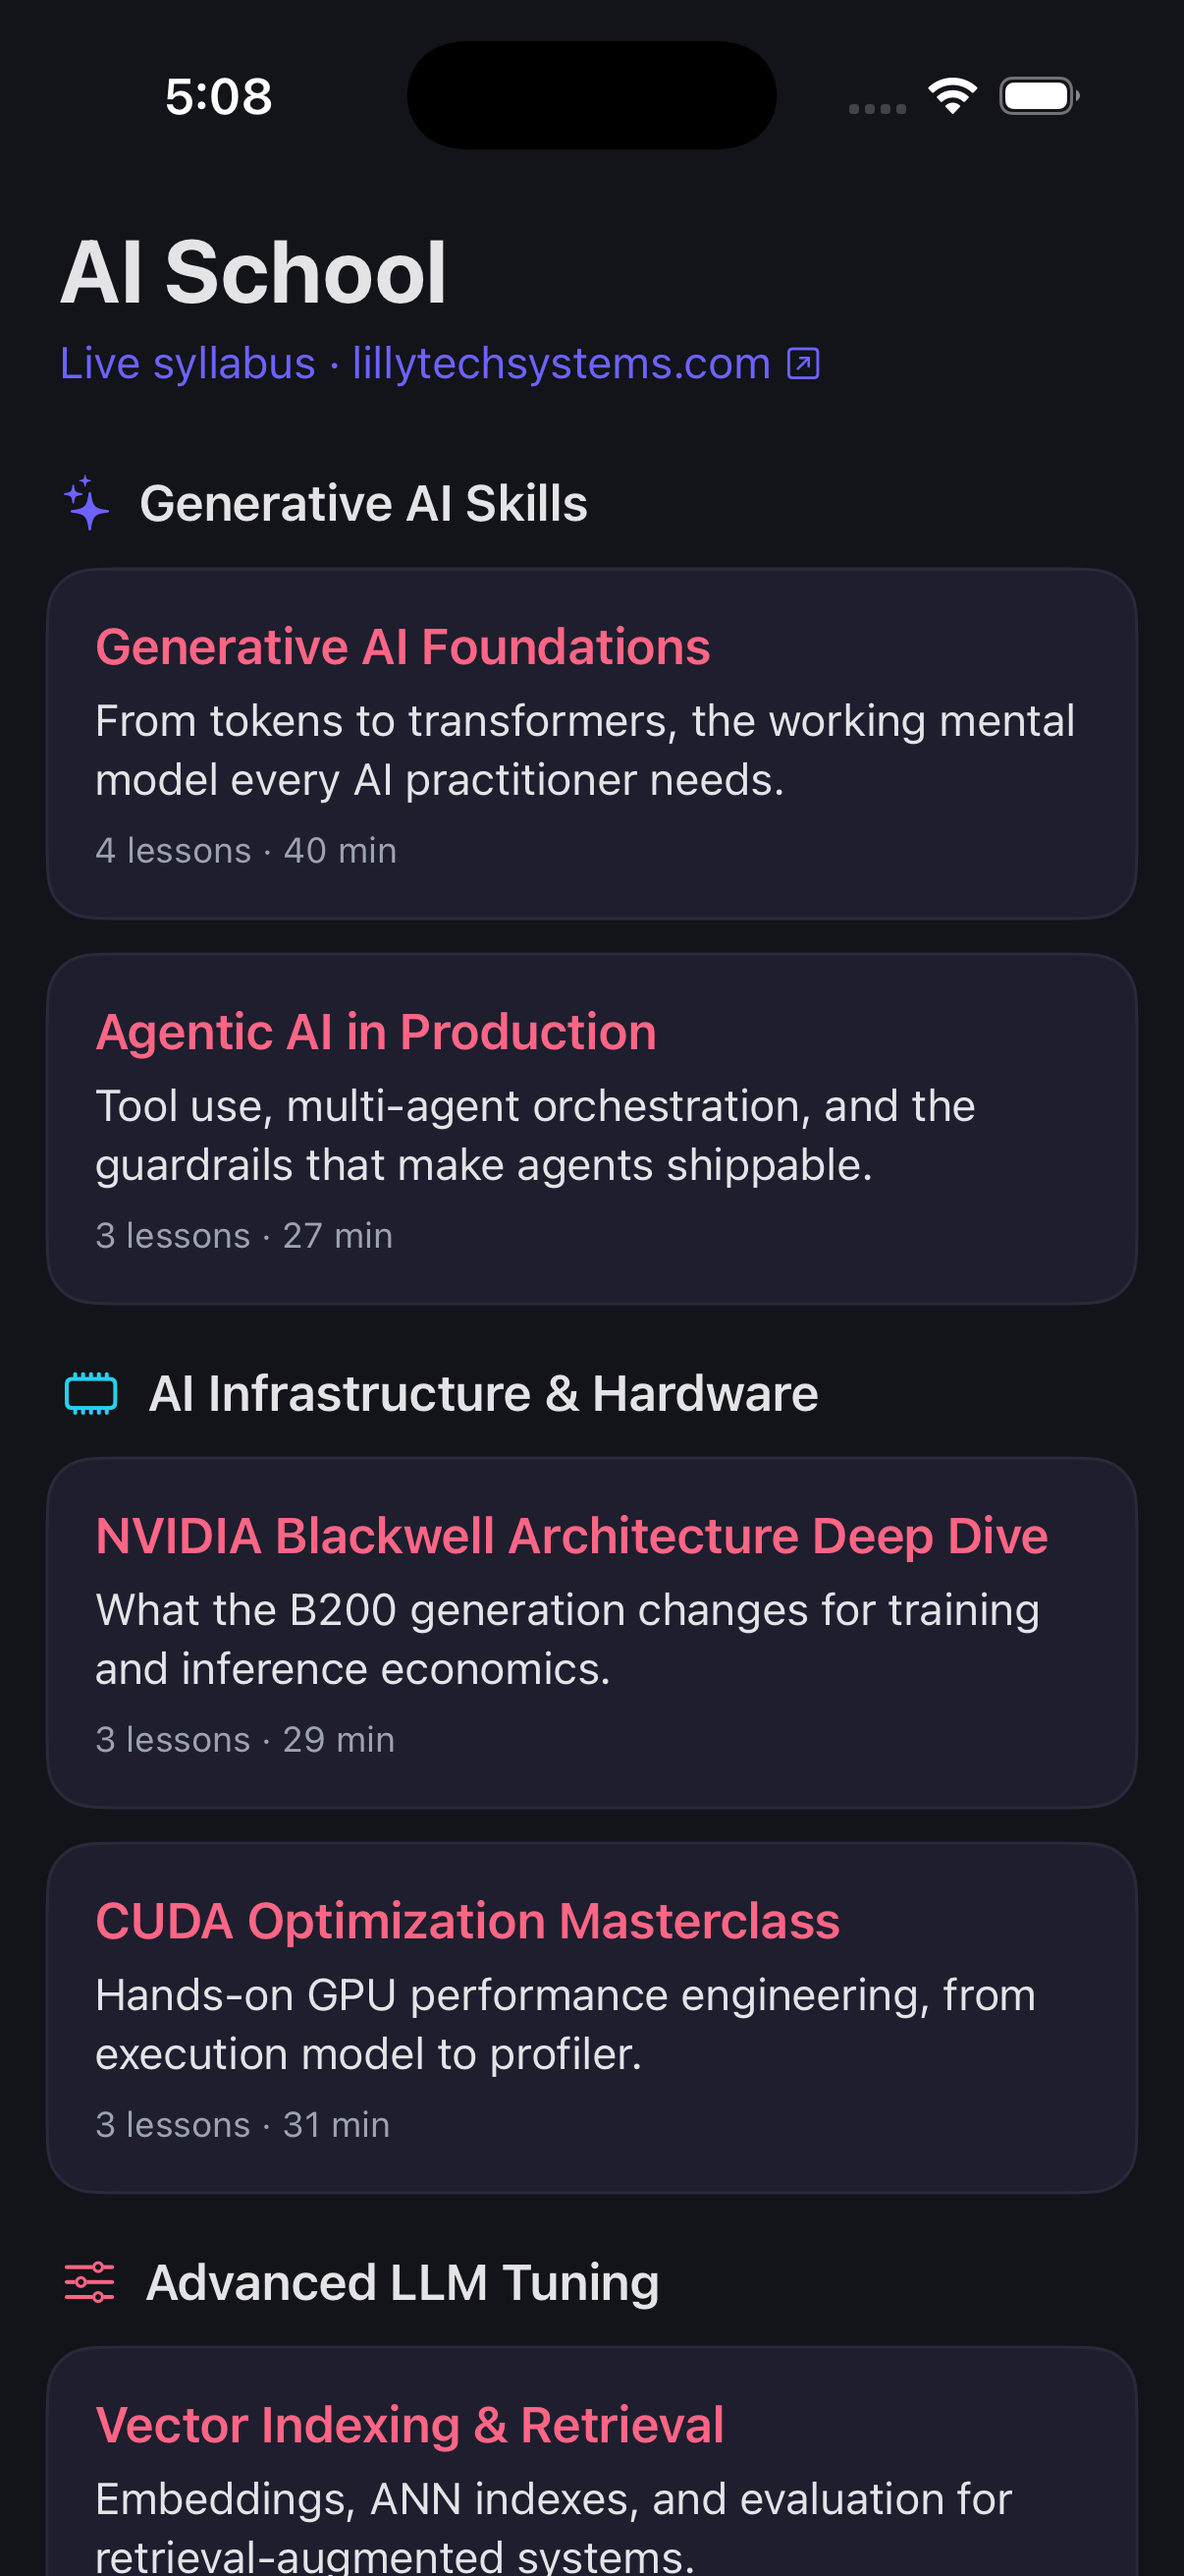
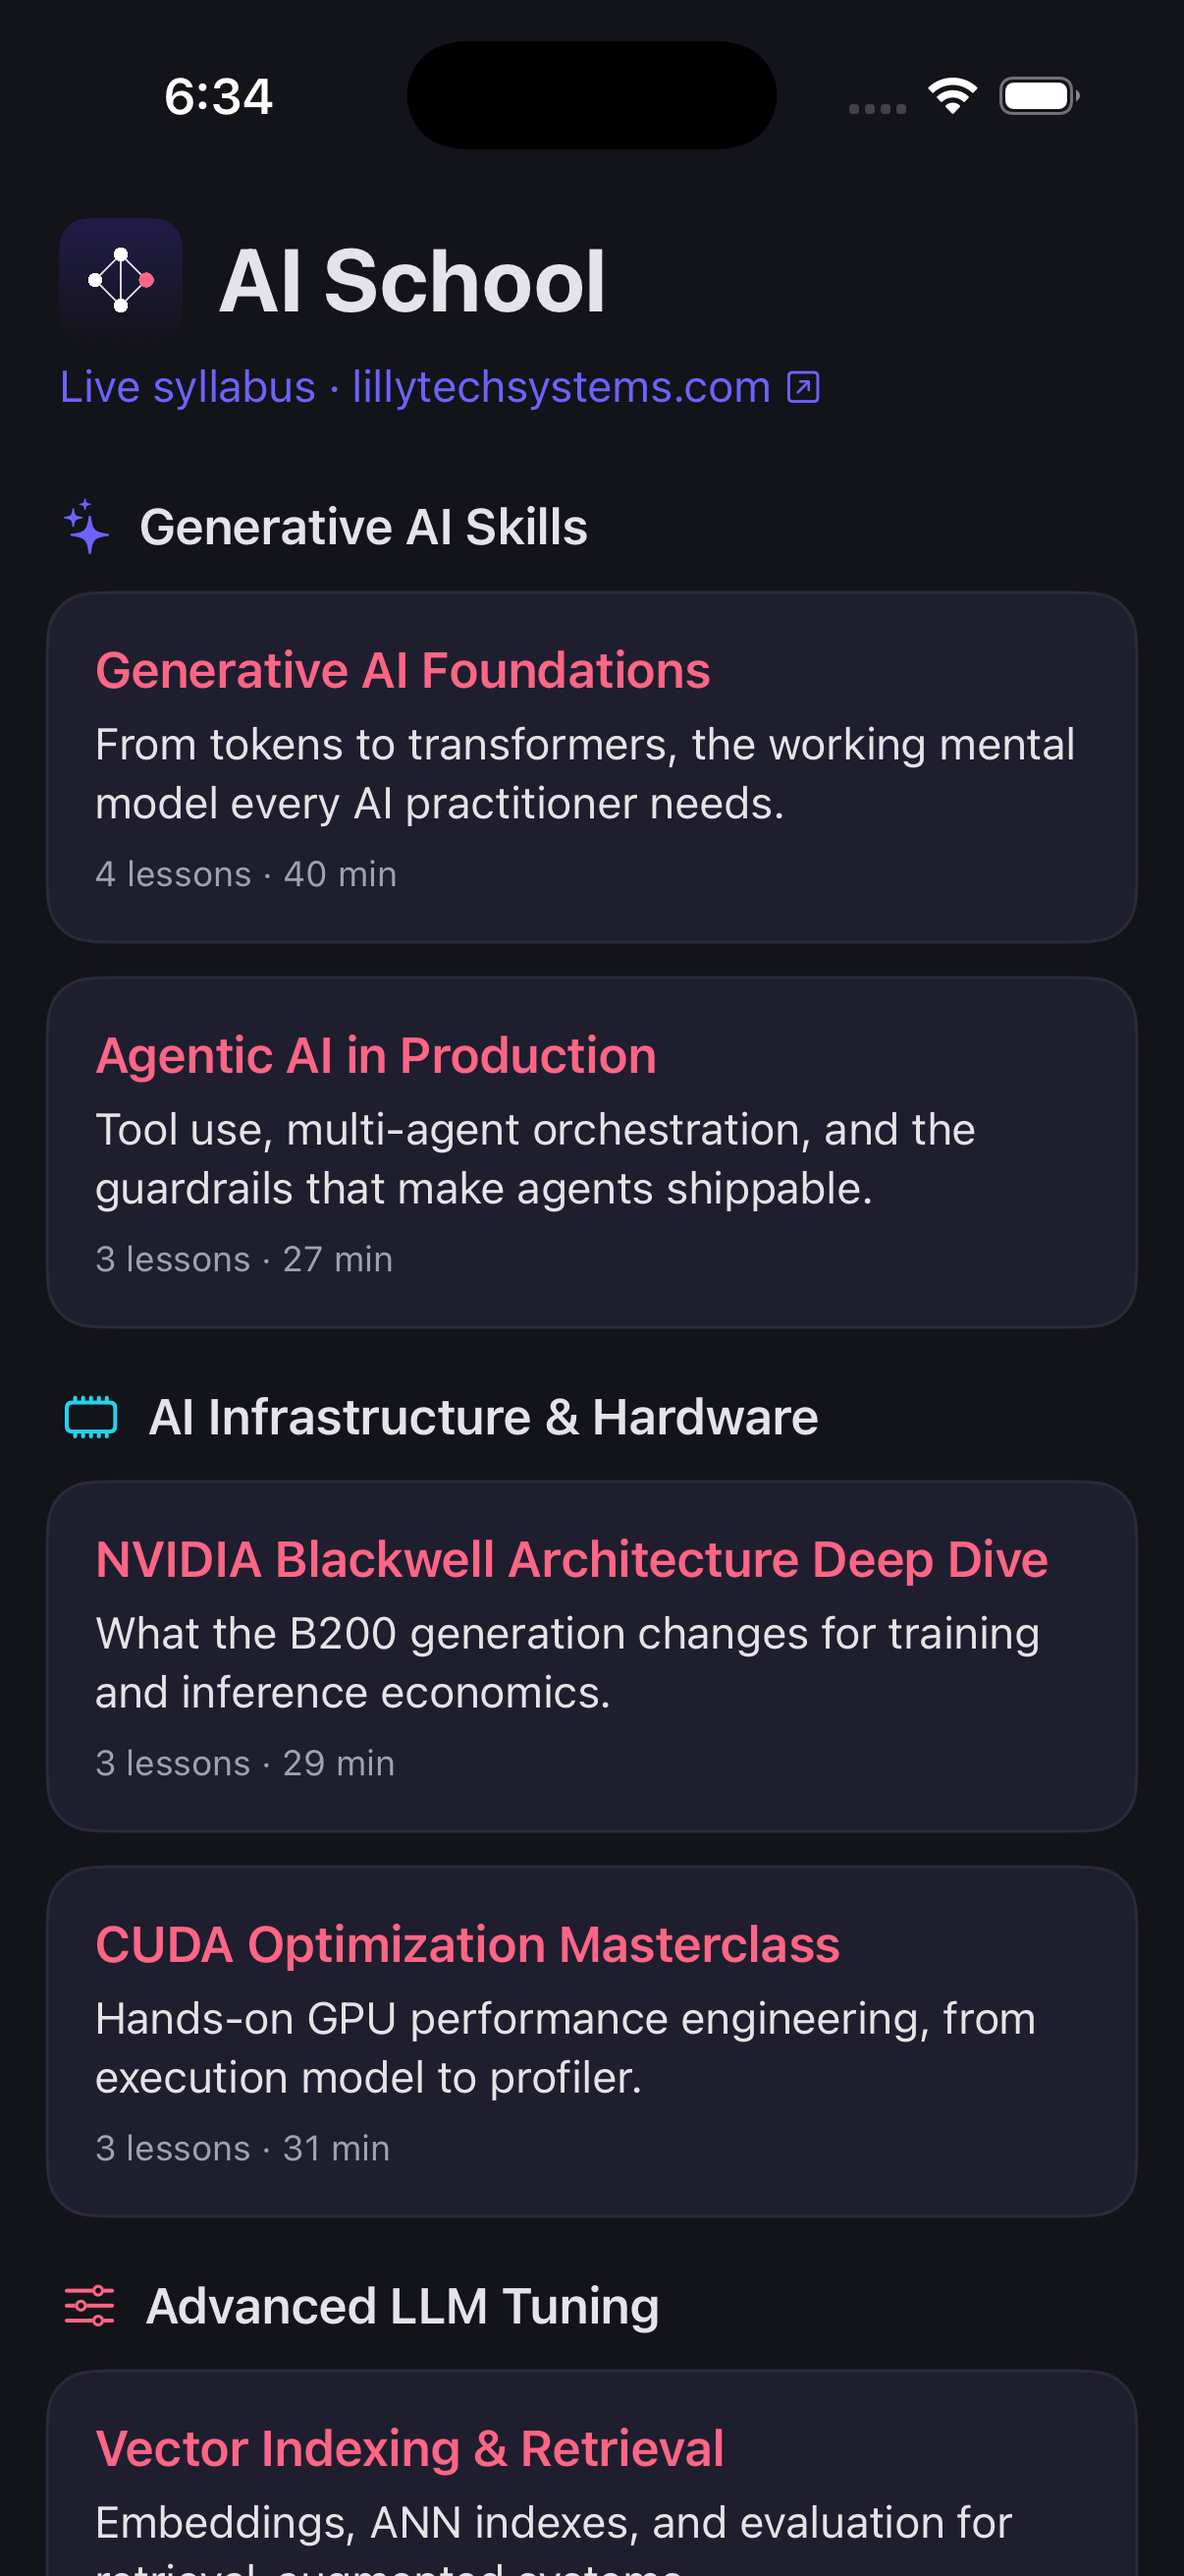
iOS: fix catalog scroll, add AI School + Lilly Tech branding
- Catalog: replace the trailing Spacer in the ScrollView with bottom padding
  and add a footer, so the page scrolls fully through all courses (the bottom
  courses were unreachable before).
- Branding: AI School knowledge-graph mark in the header (BrandMark image set,
  derived from the app icon) and a "by Lilly Tech Systems" footer linking to
  lillytechsystems.com.
- Refresh the catalog screenshot and add the home-screen app-icon screenshot.

Verified on the iPhone 17 Pro simulator: scrolls to the footer, brand mark in
header, app icon shows on the home screen.

diff --git a/ios/AISchool/Views/CourseListView.swift b/ios/AISchool/Views/CourseListView.swift
@@ -1,7 +1,8 @@
 import SwiftUI
 
-/// The catalog: courses grouped by pillar, with a tappable link to the AI
-/// School website. Root of the navigation stack.
+/// The catalog: courses grouped by pillar, with the AI School brand mark, a link
+/// to the website, and Lilly Tech Systems attribution. Root of the navigation
+/// stack.
 struct CourseListView: View {
     @StateObject private var store = SyllabusStore()
 
@@ -19,9 +20,10 @@ struct CourseListView: View {
                         ForEach(store.orderedCategories, id: \.self) { category in
                             pillarSection(category)
                         }
+                        footer
                     }
-                    Spacer(minLength: 24)
                 }
+                .padding(.bottom, 24)
             }
             .background(Brand.bg.ignoresSafeArea())
             .toolbar(.hidden, for: .navigationBar)
@@ -35,10 +37,16 @@ struct CourseListView: View {
     }
 
     private var header: some View {
-        VStack(alignment: .leading, spacing: 4) {
-            Text("AI School")
-                .font(.system(size: 30, weight: .bold))
-                .foregroundStyle(Brand.text)
+        VStack(alignment: .leading, spacing: 6) {
+            HStack(spacing: 12) {
+                Image("BrandMark")
+                    .resizable()
+                    .frame(width: 42, height: 42)
+                    .clipShape(RoundedRectangle(cornerRadius: 10, style: .continuous))
+                Text("AI School")
+                    .font(.system(size: 30, weight: .bold))
+                    .foregroundStyle(Brand.text)
+            }
             Link(destination: Endpoints.website) {
                 HStack(spacing: 4) {
                     Text("Live syllabus · lillytechsystems.com")
@@ -73,6 +81,22 @@ struct CourseListView: View {
                 .buttonStyle(.plain)
             }
         }
+    }
+
+    private var footer: some View {
+        VStack(spacing: 4) {
+            Text("An AI School product")
+                .font(.caption)
+                .foregroundStyle(Brand.textDim)
+            Link(destination: Endpoints.company) {
+                Text("by Lilly Tech Systems")
+                    .font(.caption.weight(.semibold))
+                    .foregroundStyle(Brand.primary)
+            }
+        }
+        .frame(maxWidth: .infinity)
+        .padding(.top, 32)
+        .padding(.bottom, 8)
     }
 }
 

diff --git a/ios/AISchool/Model/Endpoints.swift b/ios/AISchool/Model/Endpoints.swift
@@ -10,6 +10,9 @@ enum Endpoints {
 
     static var website: URL { URL(string: baseURL)! }
 
+    /// Lilly Tech Systems (the company behind AI School).
+    static var company: URL { URL(string: "https://www.lillytechsystems.com")! }
+
     /// Live topic page on the production site, e.g.
     /// `liveTopicPage("ai-prompts")` -> `.../ai-prompts/index.html`.
     static func liveTopicPage(_ slug: String) -> String {
